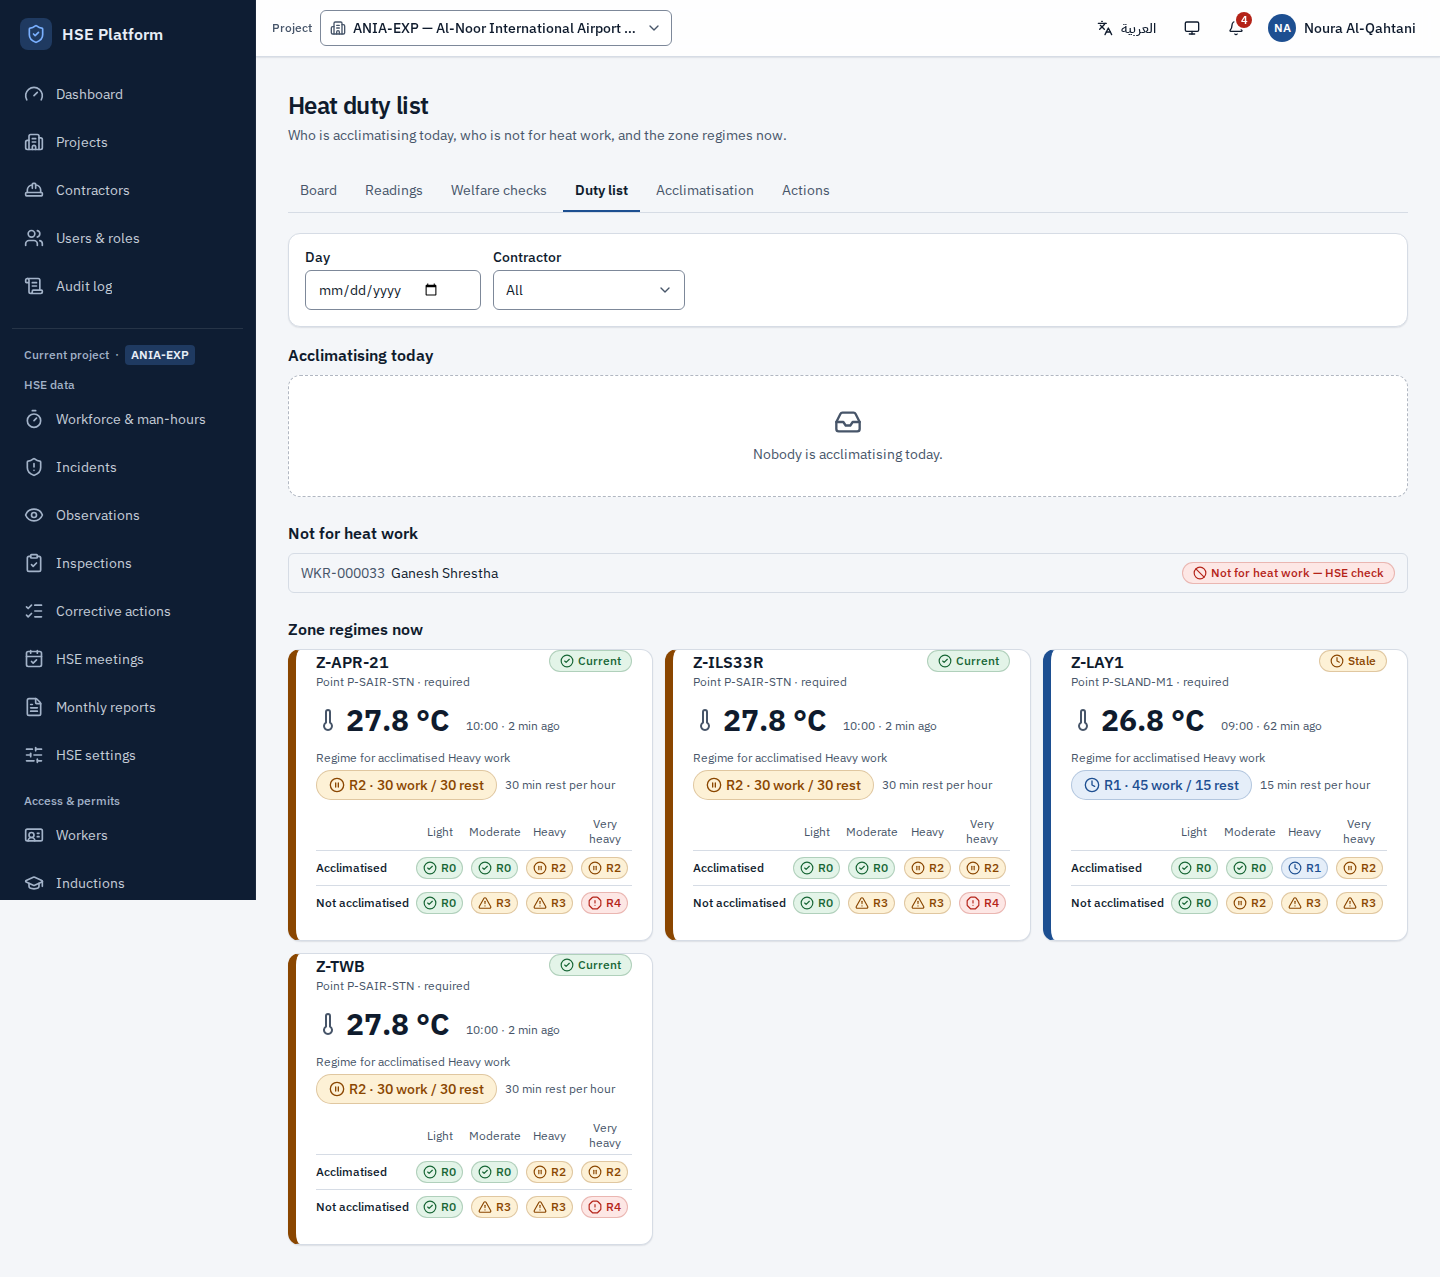
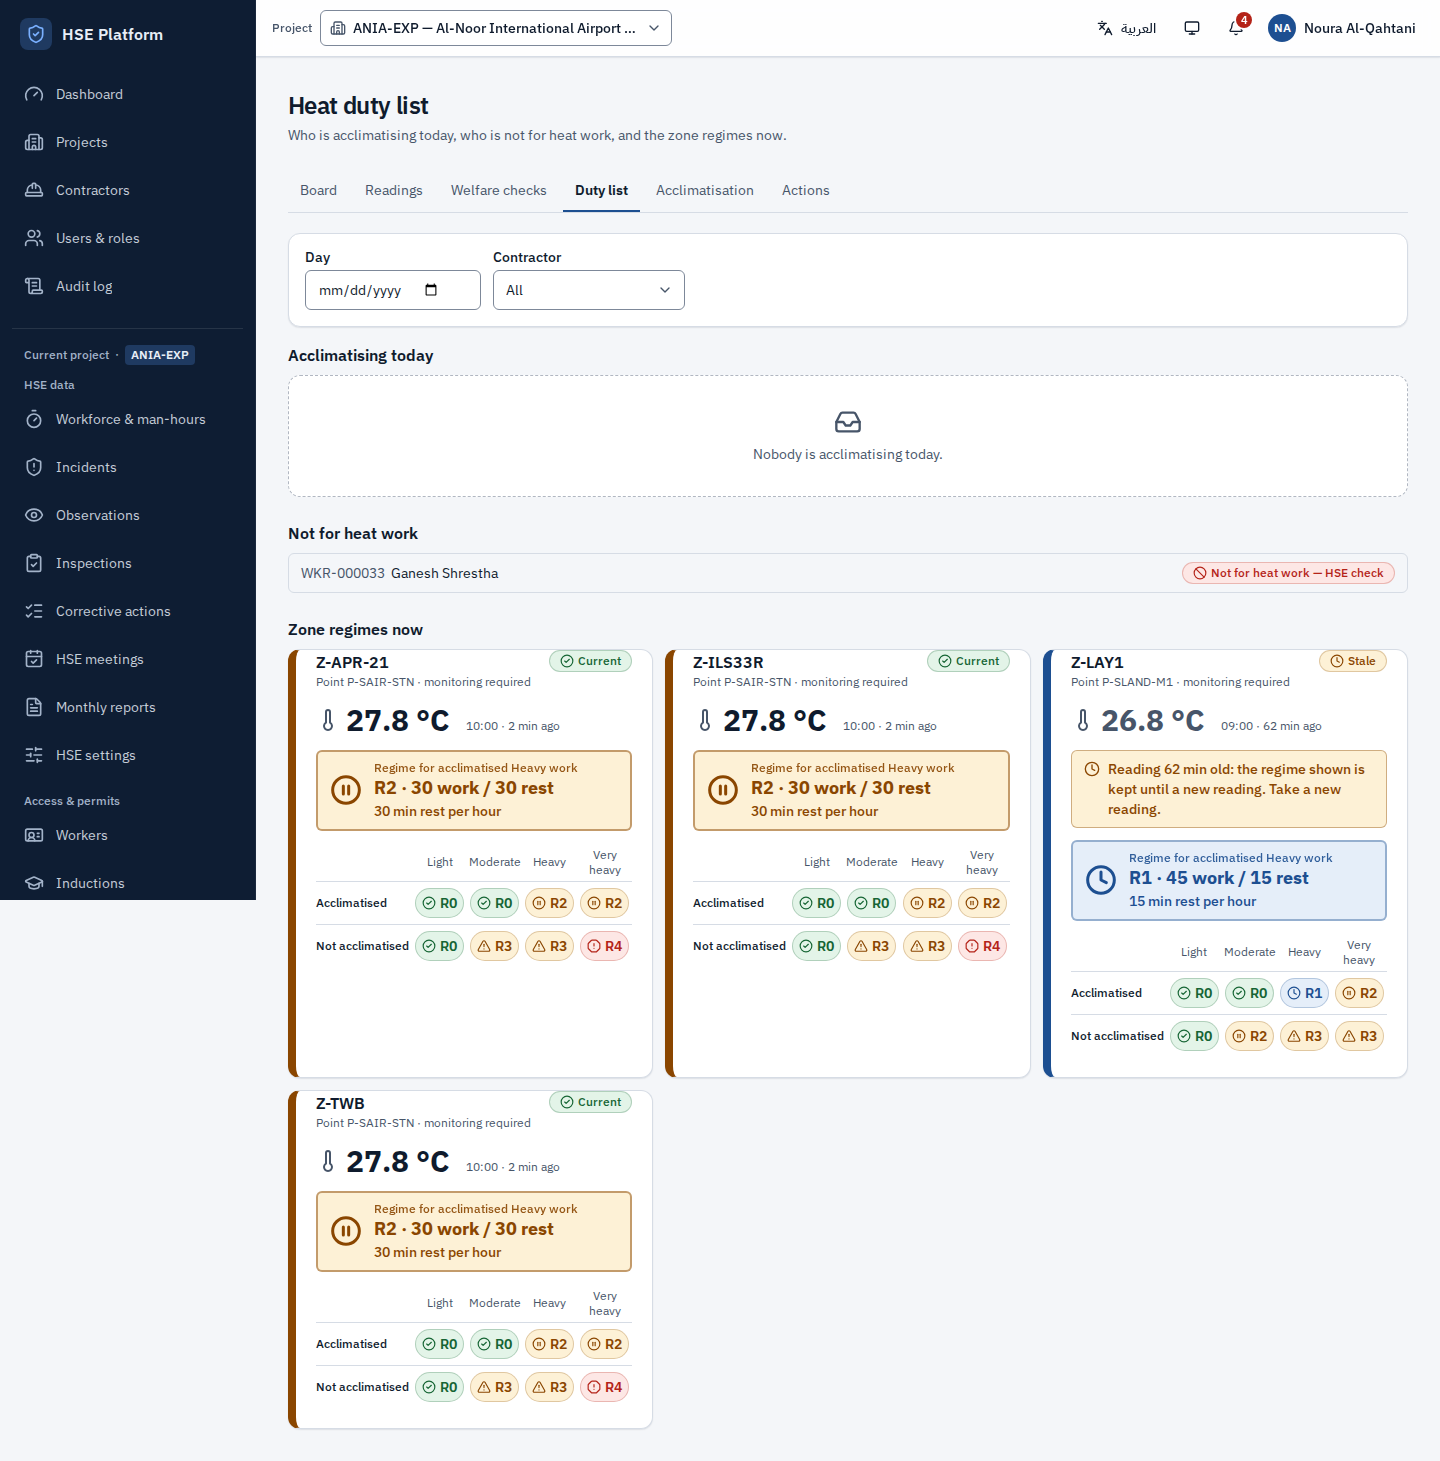
Design 6b: after screenshots, regenerated 6b screenshots, PROGRESS design done and proposals P21-P24
Claude-Session: https://claude.ai/code/session_019ePKhVEWcGdEt7YFu3vJZQ

diff --git a/docs/PROGRESS.md b/docs/PROGRESS.md
@@ -3,7 +3,7 @@
 ## Current
 - Phase: 6b — Heat stress (Phase 5 Training is PARKED, see below; Phase 6a design done, demo pending)
 - Module: heat stress (spec `docs/specs/6b-heat-stress.md` v1.0, §11 earlier-spec changes applied)
-- Phase 6b step = Frontend done (contract v0.8.0; screens, e2e and screenshots); design pass next
+- Phase 6b step = Design done (findings `docs/design/phase-6b-findings.md`; contract v0.8.0); phase demo next
 - Phase 6c spec written: `docs/specs/6c-emergency-drills.md` v1.0 (capabilities 178–190, K-104…K-109, E18–E19, T20, C28–C30; 66 ACs; §11 earlier-spec changes not yet applied)
 
 ## Phase log
@@ -624,6 +624,13 @@
 - E2E (Playwright, real backend): full suite 71 passed, 2 skipped (screenshot specs, on demand) on a fresh migrated + seeded DB — 35 Phase 0 + 36 Phase 1 tests in `e2e/p1-*.spec.ts` — dashboard (AC55, 59, 60, 61, 62, 63, 64, filters in URL, drill-down, charts, mobile), AI (AC65, 72, 73, 74, 75, insufficient data, errors, Arabic) via a recorded SSE stream in `e2e/fixtures/ai-stream.ts` (typed against the contract, replayed with `page.route`; test-only), workforce/import (AC2, 3, 4, 7, 10), incidents/PDPL (AC13, 19, 20, 21, 29, 30, 31, 33), CAs (AC40, 41, 42, 43), observations (AC35) and create flows for observations, inspections, meetings, settings, reports. Phase 0 specs unchanged except a wait in AC12 (options load asynchronously).
 - Screenshots: `docs/screenshots/phase-1/` (run `SCREENSHOTS=1 npx playwright test e2e/screenshots-p1.spec.ts`).
 
+### Design pass — Phase 6b (UI/UX Designer)
+- Design pass: done (Phase 6b).
+  - Findings, ranking and the Phase 6b design-system additions: `docs/design/phase-6b-findings.md`.
+  - Before/after screenshots: `docs/screenshots/phase-6b/design/`; 6b screenshots regenerated.
+  - Done: large headline regime panel on the zone card, Arabic regime text order fixed (code isolated), stale / unknown zones say so and make "Record a reading here" primary, larger regime grid, two-line dates in the 6b tables, radio marks on answer buttons, last point + meter pre-selected on reading entry with a "to save" hint, "monitoring required" wording, `dir="auto"` on permit midday-ban exemption texts.
+  - p6b e2e specs green (15 passed); lint, typecheck, i18n check green.
+
 ### Design pass — Phase 4 (UI/UX Designer)
 - Design pass: done (Phase 4).
   - Findings, ranking and the Phase 4 design-system additions: `docs/design/phase-4-findings.md`.
@@ -830,6 +837,12 @@ L items from the Phase 4 design pass (details in `docs/design/phase-4-findings.m
 - **P16. Certificate line on the deployment page.** The equipment-on-project page (the one an engineer opens for "the crane on my site") shows usable / not usable but not the certificate number, TPI, SWL and limitations. Needs `current_line` on `EquipmentDeploymentRead`.
 - **P17. Tag board field display.** A "problems only" toggle and a kiosk / TV mode for site offices (large tiles, problems first per zone, auto-refresh, no navigation chrome).
 - **P1 / P2 also apply to Phase 4.** Two-calendar dates make certificate rows 4–5 lines; equipment, scaffold and personnel-card actions come before the state on phones.
+
+L items from the Phase 6b design pass (details in `docs/design/phase-6b-findings.md`):
+- **P21. A "severe" orange step for R3.** R2 and R3 share one amber (they differ by icon and words). A token between warning and danger, AA in light and dark, would set R3 apart; platform-wide safety semantics, so the user decides.
+- **P22. Heat board for the field and site offices.** "Changed since you looked" marker per zone, worst-first sort, the P17 kiosk / TV mode for heat, optional "sun mode" (forced light, heavier weights and borders).
+- **P23. Offline queue for manual WBGT readings.** Readings typed without signal kept on the device and sent on reconnect (needs idempotency keys with the backend).
+- **P24. Zone headline on the saved reading.** `zones: [{zone_code, headline_regime, rest_minutes_per_hour}]` on the reading response (contract change), shown with the large regime panel.
 
 L items from the Phase 6a design pass (details in `docs/design/phase-6a-findings.md`):
 - **P18. Server verdict for "may this worker work today".** The worker page panel combines `on_hold` and each item's `band` / `hard_stop`; a `work_state` (removed / stop / check / cleared / none) with its codes on `WorkerFitnessRead`, in P6-7 words, would make it a server decision reusable by the field check (contract change).
